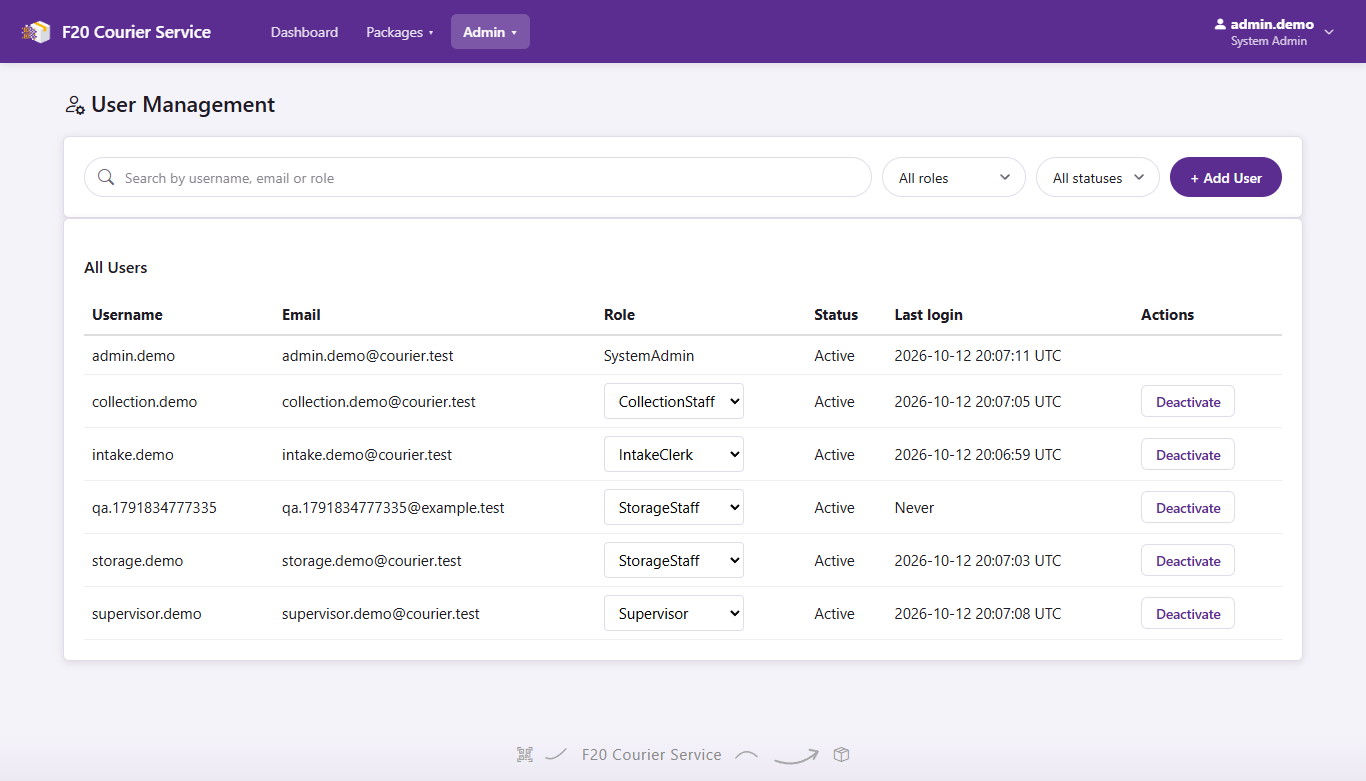
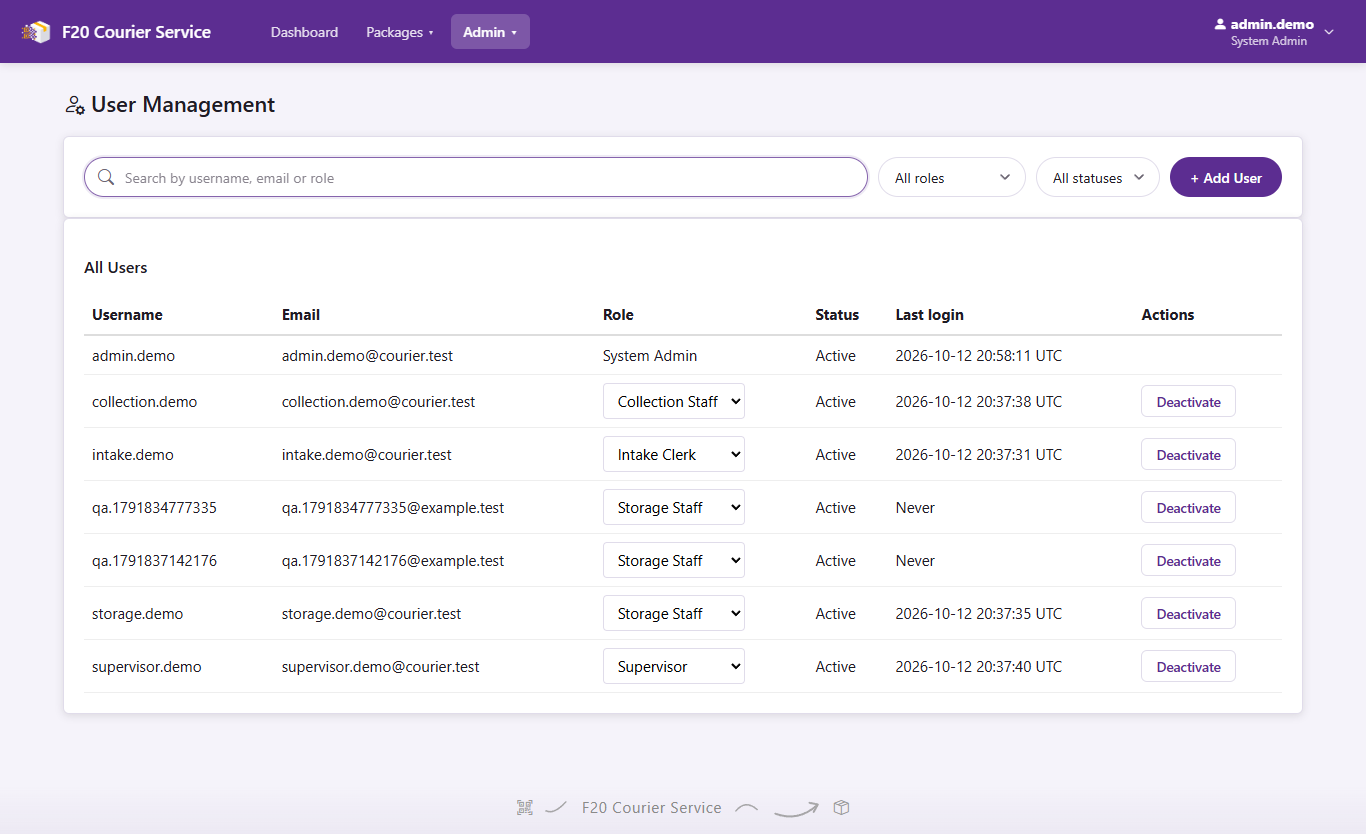
Record second PR review and combined candidate acceptance

diff --git a/docs/verification/PR_REVIEW_20261012.md b/docs/verification/PR_REVIEW_20261012.md
@@ -1,0 +1,18 @@
+# Second review of outstanding work
+
+Reviewed all four open PRs, their discussion comments, review summaries and inline comments, and comments on the open issues except T52/T61. No messages were posted to reviewers and no PR was merged during this pass.
+
+| PR | Findings and action |
+| --- | --- |
+| #115 technical documentation | Addressed both inline comments and the review summary: merged local settings/audit/security/UI status, payment's last-save-wins behaviour, notification-attempt logging, and main revision `0a8c2c6`. #123 is explicitly pending rather than falsely described as merged. Changes pushed to the existing documentation branch. |
+| #122 PowerShell 5.1 packaging | The compatibility fix works with #124's precompiled publishing. A second check found `{}` instead of null for an untagged candidate's manifest tag; normalize the failed tag lookup to null. Unknown references and untagged non-candidates fail before creating output. No release tag is created by these checks. |
+| #123 notification failure reason | Its one-line restoration agrees with the existing Detail renderer, which uses `textContent`. Verified the existing synthetic SMS failure F20-0206: the detail API returns `errorDetail`, and the browser displays the same reason. No changes made to this branch. |
+| #124 live acceptance/UI/manual | Remove an identical shared-header rule and add a stylesheet section map. Format roles consistently as Intake Clerk, Storage Staff, Collection Staff and System Admin while retaining API values; role filters include the current administrator, and free-text search accepts both displayed and internal names. Correct the PR's stale assertion that #115 had merged. |
+
+The combined candidate is local commit `ba069c35489dd8d473b59804792ed5ea3a2009bc`, assembled from all four PRs and the fixes above in a detached integration worktree. Windows PowerShell 5.1 packaged it successfully, including Razor precompilation and 359 non-integration tests with zero failures/skips. The manifest records `candidate=true`, `tag=null`, `deployed=false`, `hardwareVerified=false`. Existing dependency/assembly warnings remain.
+
+Live target: `http://localhost:48171`, IIS Express, the previously created synthetic `CourierService_TaskVerification_20261012_Remaining` database, mock mode disabled. Runtime-only local configuration disables HTTPS/cookie SSL and the notification worker; deployed configuration is not changed. Postman executes the maintained collection with `--env-var base_url=http://localhost:48171`: 37 requests, 59 assertions, zero failures. Four focused browser checks pass for labels, self-role filtering, both search spellings and #123's restored display. No new notification failures are forced during this review.
+
+T55 comment checklist: role-dependent label visibility, report links, scanner presentation, timeline colours, account confirmation/cancellation, narrow layouts and hidden mock controls have recorded evidence in [TEST_RESULTS](../TEST_RESULTS.md). This pass adds readable role boxes/search labels and CSS cleanup. Chrome's CSS parser reports no identical style rule duplicated within the same condition; necessary component/responsive overrides remain. FE signoff remains a team requirement.
+
+Still external: T53's numeric status/import targets are not present in the repository or issue comments; T56 needs two real phones and a USB scanner; T57 needs demo-machine deployment, printer, HTTPS camera and backup laptop; T60 needs a complete team rehearsal. T59 and the acceptance/manual PRs still require review and merge. T52/T61 issues and their implementation work remain excluded.

diff --git a/docs/TEST_RESULTS.md b/docs/TEST_RESULTS.md
@@ -38,3 +38,5 @@ Candidate: integrated commit `7a991ee` (UI #121, security #118, audit #119 and d
 | Two phones, USB scanner and printer (#56/#57) | Pending | Pending |
 
 Evidence: [browser results](verification/browser-results.json), [final precompiled release: 66/66](verification/browser-release-results.json), [form workflow](verification/workflow-results.json), [Postman summary](verification/postman-results.txt), [SMS results](verification/sms-results.json), [reproduction](verification/README.md), [user guide screenshots](USER_MANUAL.md). Final branch non-integration tests: 359/359; six frontend regression scripts pass; precompiled Release publish passes with the existing assembly-version warning. No real-phone, physical USB/printer, demo-machine deployment, backup laptop or team rehearsal pass is claimed. T52 and T61 remain outside this work.
+
+Second pass: [all open PRs and reviewer comments](verification/PR_REVIEW_20261012.md), including a combined Windows PowerShell 5.1 package, current role labels/filters and the restored notification reason in pending #123.
